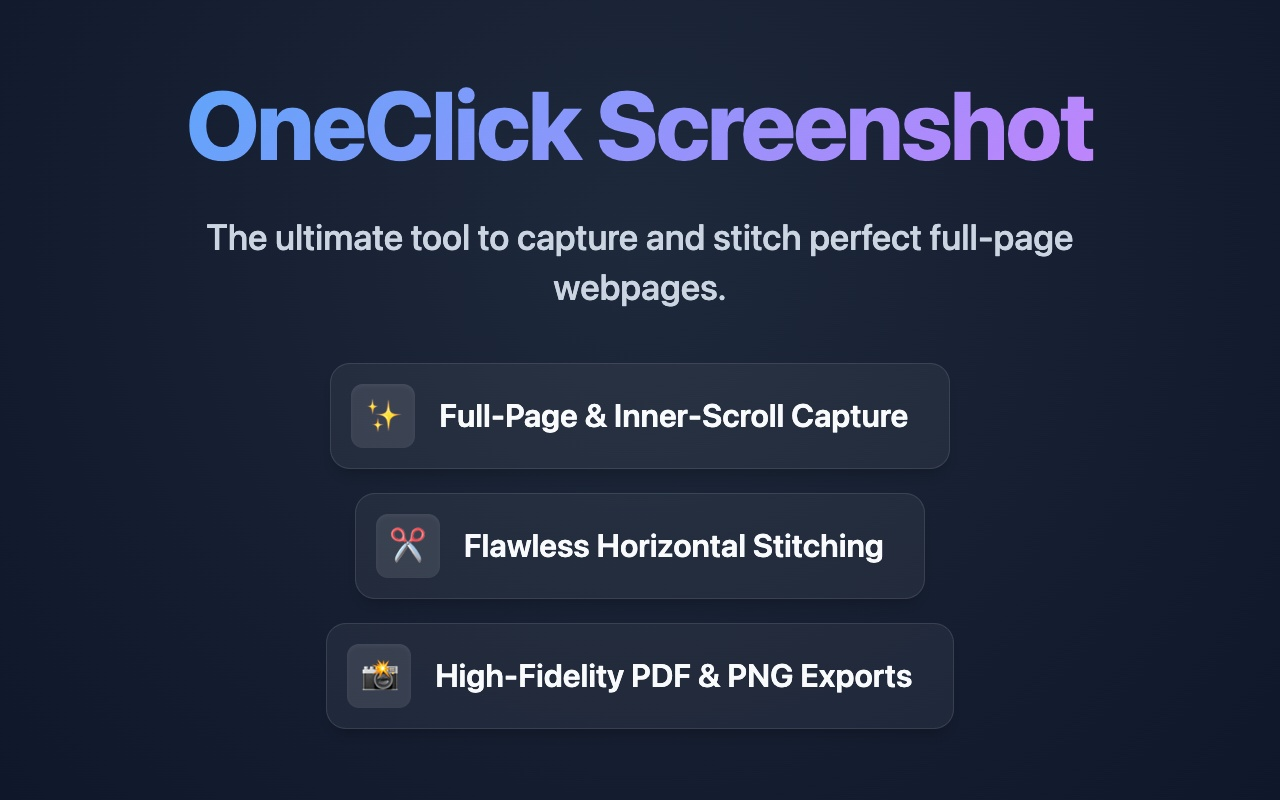
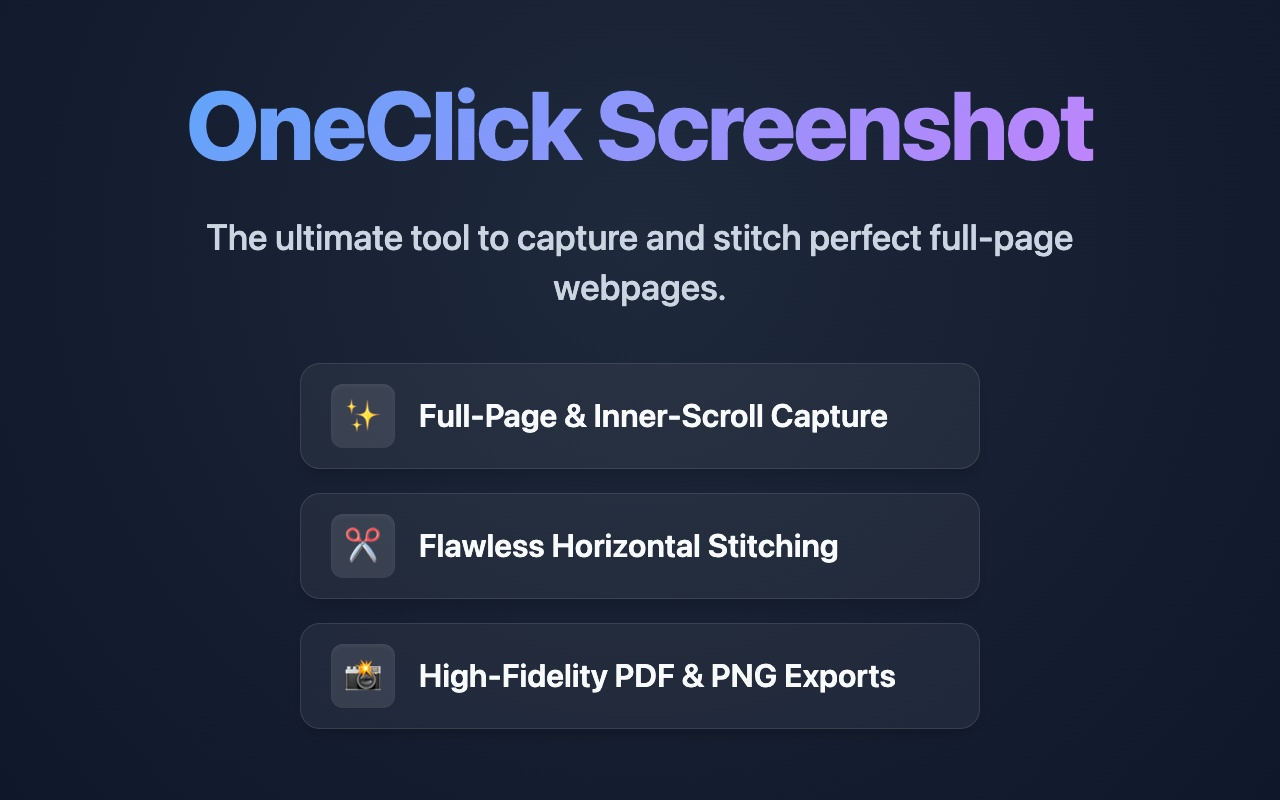
style: align features in a perfect grid

Changed region(s): [[0.25, 0.625, 0.6875, 0.7188], [0.25, 0.8125, 0.7188, 0.875], [0.25, 0.5, 0.7188, 0.5625]]

diff --git a/src/promo2.html b/src/promo2.html
@@ -60,20 +60,23 @@
       display: flex;
       flex-direction: column;
       gap: 24px;
-      align-items: center;
+      align-items: stretch;
+      width: 680px;
+      margin: 0 auto;
     }
 
     .feature {
-      display: inline-flex;
+      display: flex;
       align-items: center;
       gap: 24px;
       font-size: 32px;
       font-weight: 600;
       background: rgba(255, 255, 255, 0.05);
-      padding: 20px 40px 20px 20px;
+      padding: 20px 30px;
       border-radius: 20px;
       border: 1px solid rgba(255, 255, 255, 0.1);
       box-shadow: 0 10px 15px -3px rgba(0, 0, 0, 0.2);
+      text-align: left;
     }
 
     .feature span.emoji {
